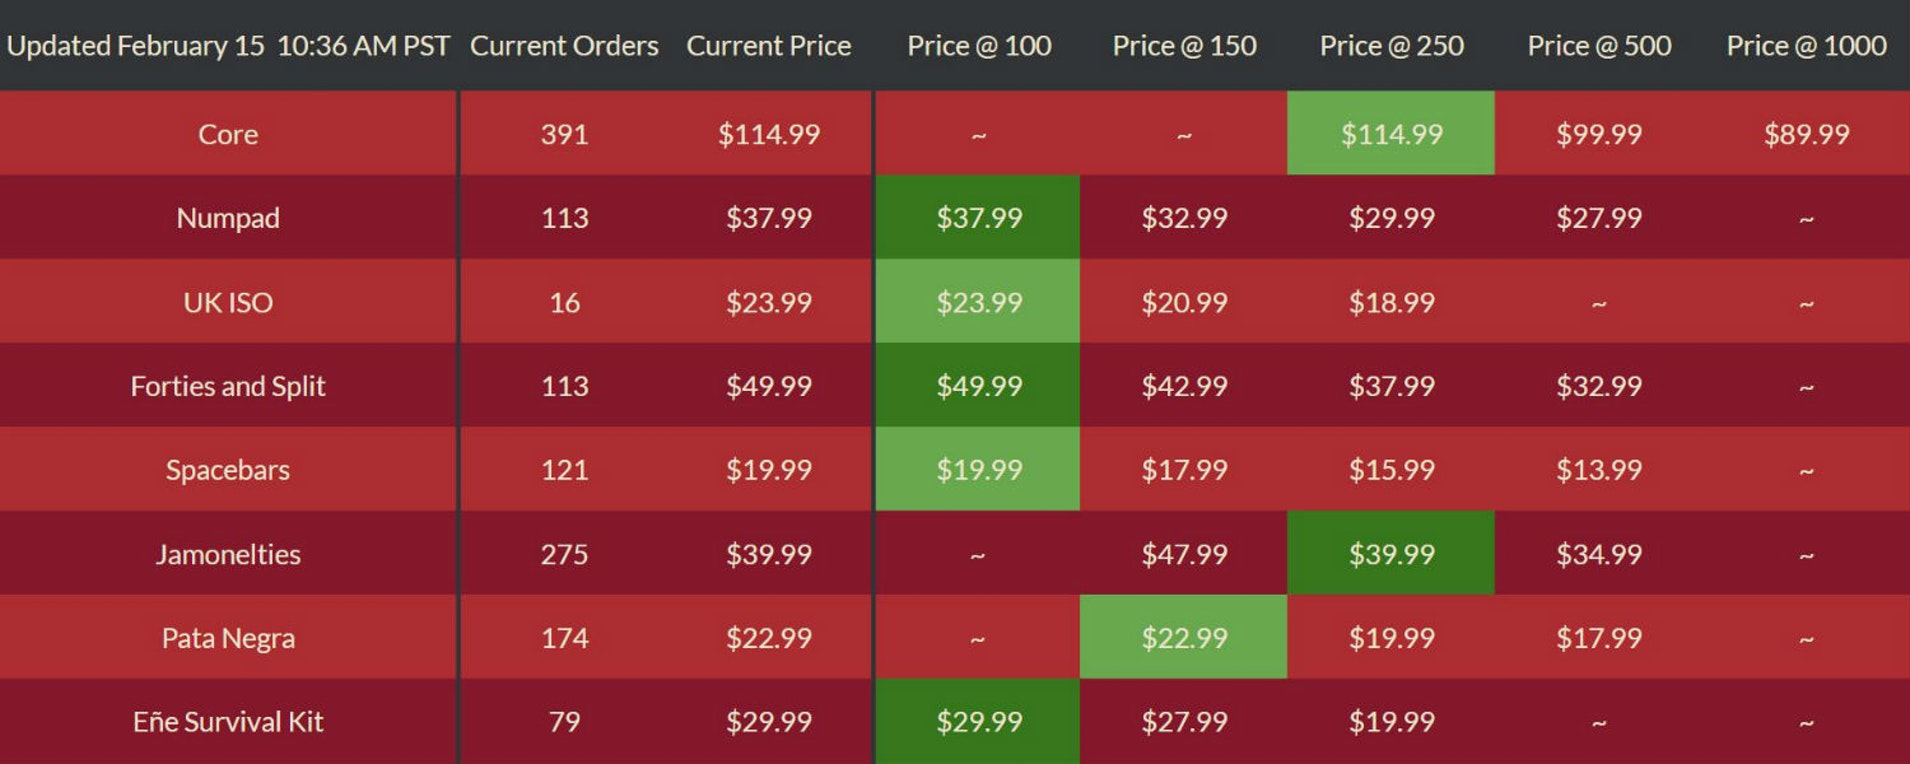
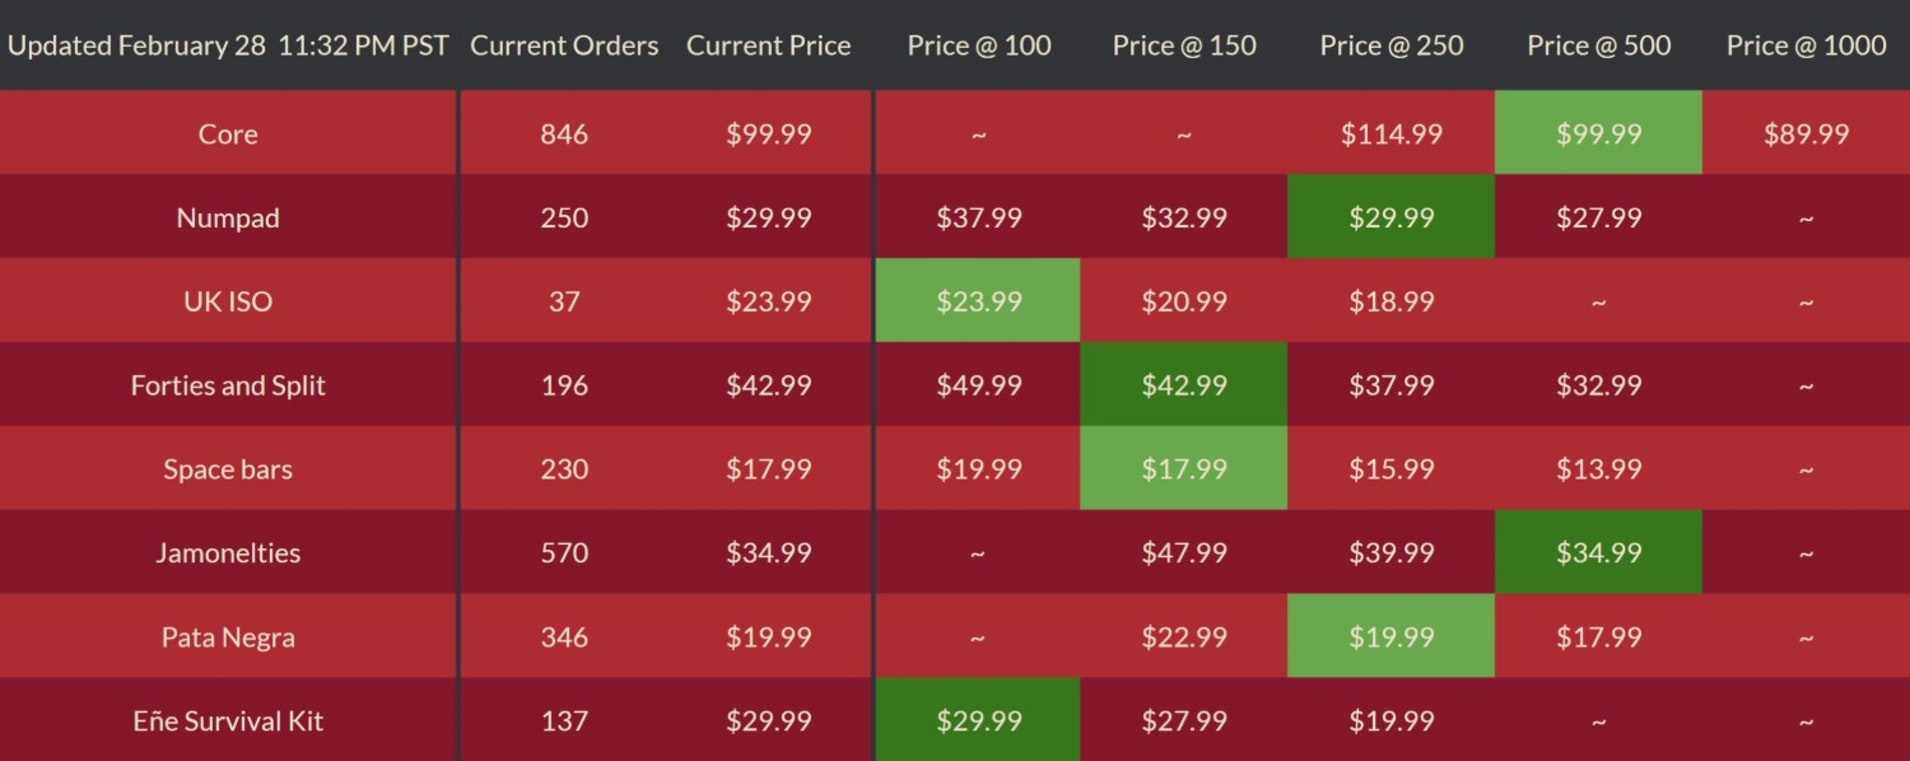
There are 3 files have been modified at 2019-03-02 13:57:09 . 	-rw-r--r-- 1 jzou ops 141591 Mar  2 13:54 assets/images/gmk-keycaps/jamon/price.jpg 	-rw-r--r-- 1 jzou ops 2928 Mar  2 13:57 docs/gmk-keycaps/Jamon.md 	-rw-r--r-- 1 jzou ops 410 Mar  2 13:55 rawdata/gmk/Jamon No files have been added. No

diff --git a/docs/gmk-keycaps/Jamon.md b/docs/gmk-keycaps/Jamon.md
@@ -16,54 +16,51 @@ ref link: [Jamon MD GB Link](https://www.massdrop.com/buy/massdrop-x-zambumon-gm
 * [Pictures](#pictures)
 
 
-## Price  
-NOTE: USD to RMB exchange rate is 6.79
-
 | Name          | Price(MD)    |  Price(RMB) | Quantity |
 | ------------- | ------------ |  ---------- | -------- |
-|[Core](#core)|114.99|780.78|unknown|
-|[Numpad](#numpad)|37.99|257.95|unknown|
-|[UK ISO](#uk-iso)|23.99|162.89|unknown|
-|[Forties & Split](#forties--split)|49.99|339.43|unknown|
-|[Spacebars](#spacebars)|19.99|135.73|unknown|
-|[Jamonelties](#jamonelties)|39.99|271.53|unknown|
-|[Pata Negra](#pata-negra)|22.99|156.10|unknown|
-|[Ene Survival](#ene-survival)|29.99|203.63|unknown|
+|[Core](#core)|99.99|678.93|846|
+|[Numpad](#numpad)|29.99|203.63|250|
+|[UK ISO](#uk-iso)|23.99|162.89|37|
+|[Forties & Split](#forties-&-split)|42.99|291.90|196|
+|[Spacebars](#spacebars)|17.99|122.15|230|
+|[Jamonelties](#jamonelties)|34.99|237.58|570|
+|[Pata Negra](#pata-negra)|19.99|135.73|346|
+|[Ene Survival](#ene-survival)|29.99|203.63|137|
 
 <img src="{{ 'assets/images/gmk-keycaps/jamon/price.jpg' | relative_url }}" alt="price" class="image featured">
 
 
 ## Kits
 ### Core
-**Price(MD):** 114.99    **Price(RMB):** 780.78    **Quantity:** unknown  
+**Price(MD):** 99.99    **Price(RMB):** 678.93    **Quantity:** 846
 <img src="{{ 'assets/images/gmk-keycaps/jamon/kits_pics/core.jpg' | relative_url }}" alt="Core" class="image featured">
 
 ### Numpad
-**Price(MD):** 37.99    **Price(RMB):** 257.95    **Quantity:** unknown  
+**Price(MD):** 29.99    **Price(RMB):** 203.63    **Quantity:** 250
 <img src="{{ 'assets/images/gmk-keycaps/jamon/kits_pics/numpad.jpg' | relative_url }}" alt="Numpad" class="image featured">
 
 ### UK ISO
-**Price(MD):** 23.99    **Price(RMB):** 162.89    **Quantity:** unknown  
+**Price(MD):** 23.99    **Price(RMB):** 162.89    **Quantity:** 37
 <img src="{{ 'assets/images/gmk-keycaps/jamon/kits_pics/uk-iso.jpg' | relative_url }}" alt="UK ISO" class="image featured">
 
 ### Forties & Split
-**Price(MD):** 49.99    **Price(RMB):** 339.43    **Quantity:** unknown  
-<img src="{{ 'assets/images/gmk-keycaps/jamon/kits_pics/forties-split.jpg' | relative_url }}" alt="Forties & Split" class="image featured">
+**Price(MD):** 42.99    **Price(RMB):** 291.90    **Quantity:** 196
+<img src="{{ 'assets/images/gmk-keycaps/jamon/kits_pics/forties-&-split.png' | relative_url }}" alt="Forties & Split" class="image featured">
 
 ### Spacebars
-**Price(MD):** 19.99    **Price(RMB):** 135.73    **Quantity:** unknown  
+**Price(MD):** 17.99    **Price(RMB):** 122.15    **Quantity:** 230
 <img src="{{ 'assets/images/gmk-keycaps/jamon/kits_pics/spacebars.jpg' | relative_url }}" alt="Spacebars" class="image featured">
 
 ### Jamonelties
-**Price(MD):** 39.99    **Price(RMB):** 271.53    **Quantity:** unknown  
+**Price(MD):** 34.99    **Price(RMB):** 237.58    **Quantity:** 570
 <img src="{{ 'assets/images/gmk-keycaps/jamon/kits_pics/jamonelties.jpg' | relative_url }}" alt="Jamonelties" class="image featured">
 
 ### Pata Negra
-**Price(MD):** 22.99    **Price(RMB):** 156.10    **Quantity:** unknown  
+**Price(MD):** 19.99    **Price(RMB):** 135.73    **Quantity:** 346
 <img src="{{ 'assets/images/gmk-keycaps/jamon/kits_pics/pata-negra.jpg' | relative_url }}" alt="Pata Negra" class="image featured">
 
 ### Ene Survival
-**Price(MD):** 29.99    **Price(RMB):** 203.63    **Quantity:** unknown  
+**Price(MD):** 29.99    **Price(RMB):** 203.63    **Quantity:** 137
 <img src="{{ 'assets/images/gmk-keycaps/jamon/kits_pics/ene-survival.jpg' | relative_url }}" alt="Ene Survival" class="image featured">
 
 
